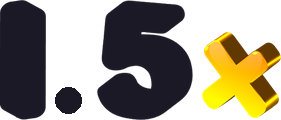
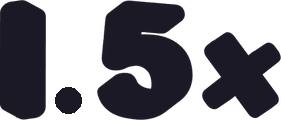
fix: 재생속도 X 검정 재합성 + 라벨 보라 17px 강조(숫자보다 크게) + 홈 번개 42px

Changed region(s): [[0.7117, 0.25, 1.0, 1.0]]

diff --git a/src/screens/SetWordbookEvalStage/ThemedBody.tsx b/src/screens/SetWordbookEvalStage/ThemedBody.tsx
@@ -179,7 +179,7 @@ export function ThemedBody(p: ThemedBodyProps) {
         isRule ? { borderBottomWidth: L.hairline, borderBottomColor: c.line, paddingBottom: s.row } : boxOf(),
       ]}
     >
-      <Text style={[{ fontSize: t.bodySize - 1, color: c.textSecondary }, bodyFont(theme, 600)]}>재생 속도</Text>
+      <Text style={[{ fontSize: t.bodySize - 1, color: c.textSecondary }, bodyFont(theme, 600), theme.id === 'malhaeboka' && { fontSize: 17, fontWeight: '800' as const, color: '#4C34C2' }]}>재생 속도</Text>
       <View style={{ flexDirection: 'row', gap: 6 }}>
         {([0.5, 1.0, 1.5] as const).map((spd) => {
           const on = p.speed === spd;

diff --git a/src/screens/HomeScreen/index.tsx b/src/screens/HomeScreen/index.tsx
@@ -76,7 +76,7 @@ export function HomeScreen({ sessions, setView, onStartSession }: Props) {
         </View>
         <View style={styles.boltBadge}>
           {brandCrest ? (
-            <Image source={require('../../../assets/themes/malhaeboka/icon-bolt.png')} style={{ width: 32, height: 32 }} resizeMode="contain" />
+            <Image source={require('../../../assets/themes/malhaeboka/icon-bolt.png')} style={{ width: 42, height: 42 }} resizeMode="contain" />
           ) : (
             <Text style={styles.boltIcon}>⚡</Text>
           )}
